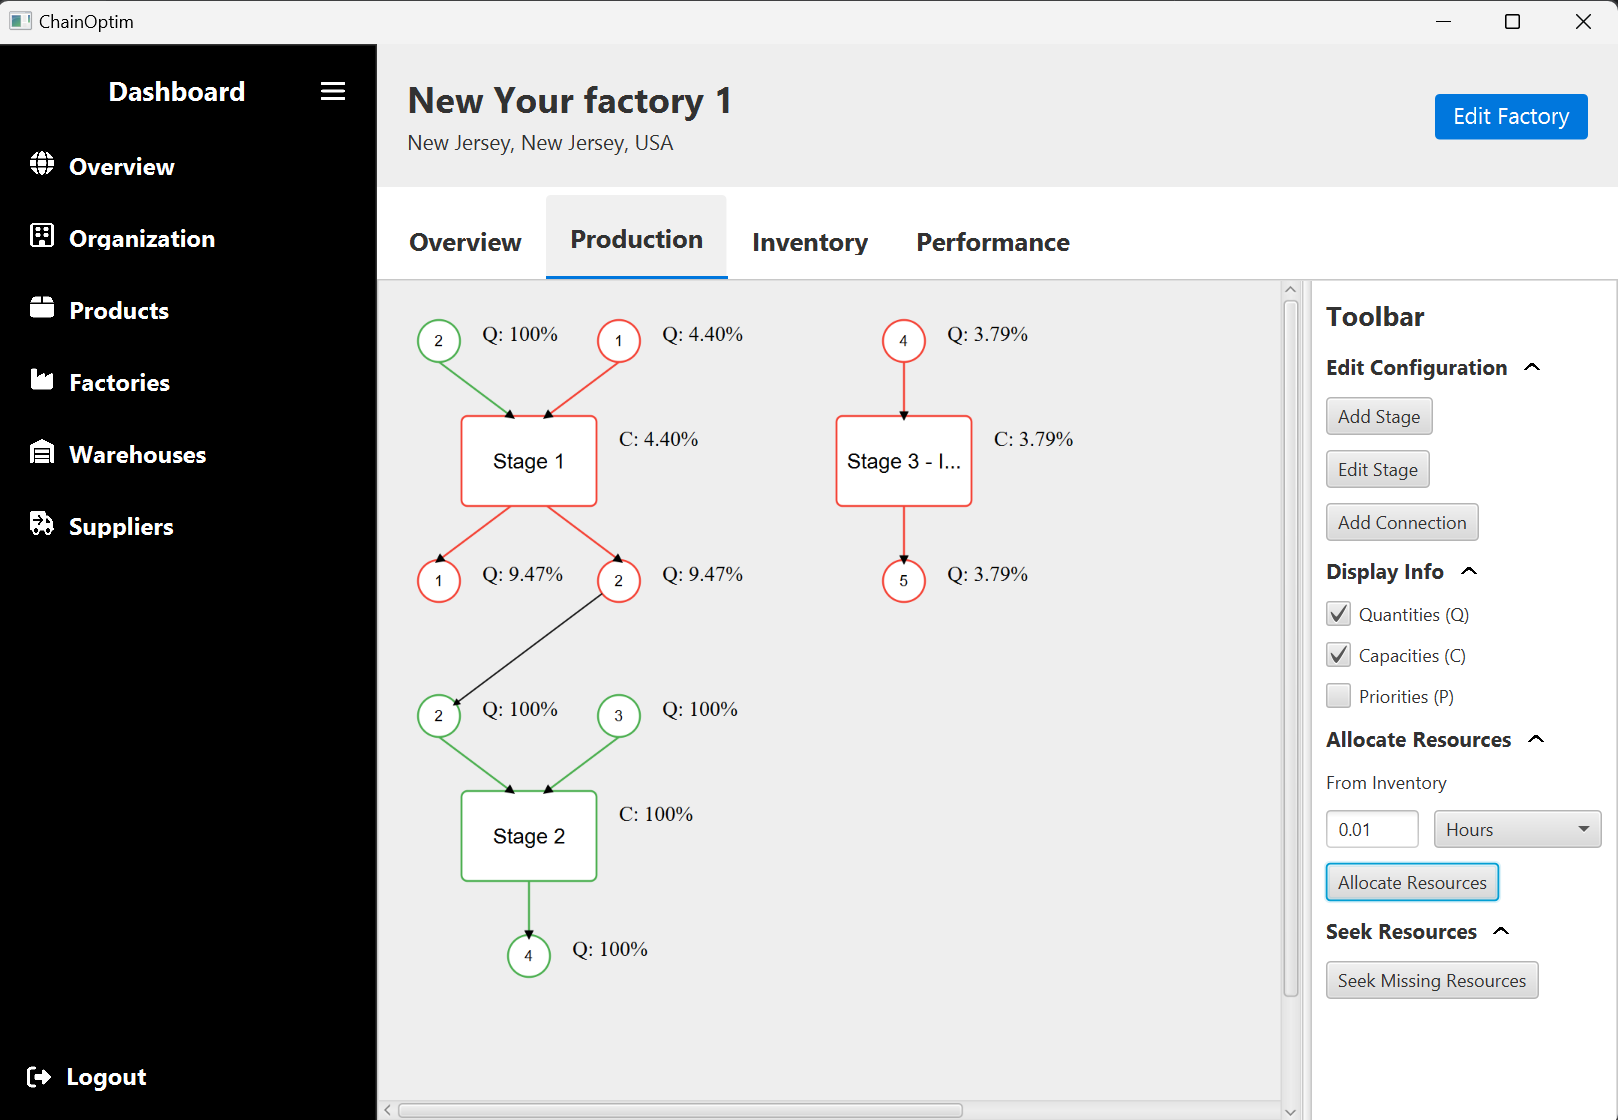
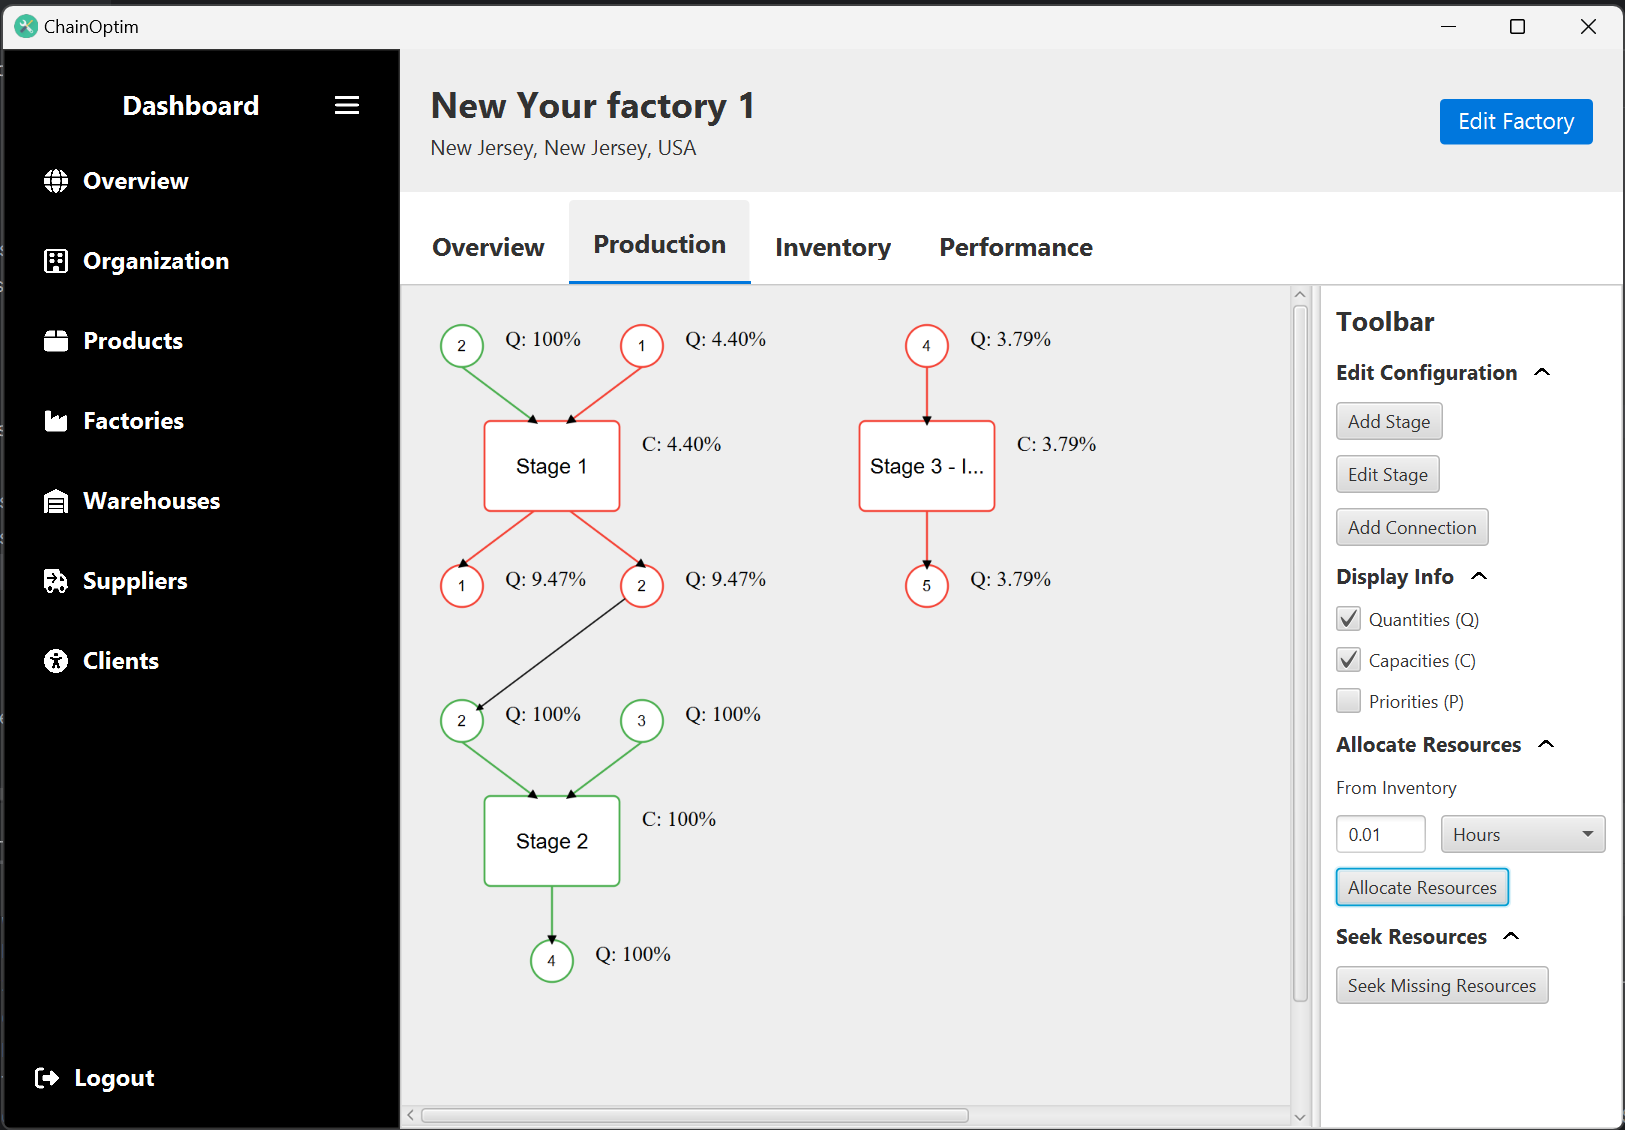
Add clients to Sidebar, AppModule etc

diff --git a/src/main/resources/css/sidebar.css b/src/main/resources/css/sidebar.css
@@ -2,11 +2,11 @@
 .sidebar {
     -fx-background-color: #000000;
     -fx-border-color: #333;
-    -fx-spacing: 10px;
+    -fx-spacing: 12px;
 }
 
 .sidebar-inner-container {
-    -fx-padding: 10px;
+    -fx-padding: 16px;
 }
 
 .sidebar-title {
@@ -25,7 +25,7 @@
     -fx-padding: 10px;
     -fx-border-radius: 5px;
     -fx-min-height: 40;
-    -fx-max-height: 40;
+    -fx-max-height: 48;
     -fx-alignment: baseline-left;
 
 }

diff --git a/src/main/java/org/chainoptim/desktop/features/client/controller/ClientController.java b/src/main/java/org/chainoptim/desktop/features/client/controller/ClientController.java
@@ -45,11 +45,11 @@ public class ClientController implements Initializable {
     @FXML
     private Tab shipmentsTab;
     @FXML
-    private Tab performanceTab;
+    private Tab evaluationTab;
     @FXML
     private Label clientName;
-    @FXML
-    private Label clientLocation;
+//    @FXML
+//    private Label clientLocation;
 
     @Inject
     public ClientController(ClientService clientService,
@@ -67,7 +67,7 @@ public class ClientController implements Initializable {
     @Override
     public void initialize(URL location, ResourceBundle resources) {
         Integer clientId = currentSelectionService.getSelectedId();
-        if (client == null) {
+        if (clientId == null) {
             System.out.println("Missing client id.");
             fallbackManager.setErrorMessage("Failed to load client.");
         }
@@ -93,10 +93,10 @@ public class ClientController implements Initializable {
             }
             this.client = clientOptional.get();
             clientName.setText(client.getName());
-            clientLocation.setText(client.getLocation().getFormattedLocation());
+//            clientLocation.setText(client.getLocation().getFormattedLocation());
 
 
-            loadTabContent(overviewTab, "/org/chainoptim/desktop/features/client/overview/ClientOverview.fxml", this.client);
+            loadTabContent(overviewTab, "/org/chainoptim/desktop/features/client/ClientOverviewView.fxml", this.client);
         });
 
         return clientOptional;
@@ -123,9 +123,9 @@ public class ClientController implements Initializable {
                 loadTabContent(shipmentsTab, "/org/chainoptim/desktop/features/client/ClientShipmentsView.fxml", this.client);
             }
         });
-        performanceTab.selectedProperty().addListener((observable, wasSelected, isNowSelected) -> {
-            if (Boolean.TRUE.equals(isNowSelected) && performanceTab.getContent() == null) {
-                loadTabContent(performanceTab, "/org/chainoptim/desktop/features/client/ClientPerformanceView.fxml", this.client);
+        evaluationTab.selectedProperty().addListener((observable, wasSelected, isNowSelected) -> {
+            if (Boolean.TRUE.equals(isNowSelected) && evaluationTab.getContent() == null) {
+                loadTabContent(evaluationTab, "/org/chainoptim/desktop/features/client/ClientEvaluationView.fxml", this.client);
             }
         });
     }

diff --git a/src/main/java/org/chainoptim/desktop/core/main/service/NavigationServiceImpl.java b/src/main/java/org/chainoptim/desktop/core/main/service/NavigationServiceImpl.java
@@ -50,14 +50,17 @@ public class NavigationServiceImpl implements NavigationService {
             Map.entry("Factories", "/org/chainoptim/desktop/features/factory/FactoriesView.fxml"),
             Map.entry("Warehouses", "/org/chainoptim/desktop/features/warehouse/WarehousesView.fxml"),
             Map.entry("Suppliers", "/org/chainoptim/desktop/features/supplier/SuppliersView.fxml"),
+            Map.entry("Clients", "/org/chainoptim/desktop/features/client/ClientsView.fxml"),
             // Dynamic route pages
             Map.entry("Product", "/org/chainoptim/desktop/features/product/ProductView.fxml"),
             Map.entry("Factory", "/org/chainoptim/desktop/features/factory/FactoryView.fxml"),
             Map.entry("Supplier", "/org/chainoptim/desktop/features/supplier/SupplierView.fxml"),
+            Map.entry("Client", "/org/chainoptim/desktop/features/client/ClientView.fxml"),
 
             // Create forms
             Map.entry("Create-Product", "/org/chainoptim/desktop/features/product/CreateProductView.fxml"),
-            Map.entry("Create-Supplier", "/org/chainoptim/desktop/features/supplier/CreateSupplierView.fxml")
+            Map.entry("Create-Supplier", "/org/chainoptim/desktop/features/supplier/CreateSupplierView.fxml"),
+            Map.entry("Create-Client", "/org/chainoptim/desktop/features/client/CreateClientView.fxml")
     );
 
     public void switchView(String viewKey) {

diff --git a/src/main/java/org/chainoptim/desktop/AppModule.java b/src/main/java/org/chainoptim/desktop/AppModule.java
@@ -13,6 +13,10 @@ import org.chainoptim.desktop.core.user.repository.UserRepository;
 import org.chainoptim.desktop.core.user.repository.UserRepositoryImpl;
 import org.chainoptim.desktop.core.user.service.AuthenticationService;
 import org.chainoptim.desktop.core.user.service.AuthenticationServiceImpl;
+import org.chainoptim.desktop.features.client.service.ClientService;
+import org.chainoptim.desktop.features.client.service.ClientServiceImpl;
+import org.chainoptim.desktop.features.client.service.ClientWriteService;
+import org.chainoptim.desktop.features.client.service.ClientWriteServiceImpl;
 import org.chainoptim.desktop.features.factory.factorygraph.service.FactoryProductionGraphService;
 import org.chainoptim.desktop.features.factory.factorygraph.service.FactoryProductionGraphServiceImpl;
 import org.chainoptim.desktop.features.factory.service.FactoryService;
@@ -69,5 +73,7 @@ public class AppModule extends AbstractModule {
         bind(WarehouseService.class).to(WarehouseServiceImpl.class);
         bind(SupplierService.class).to(SupplierServiceImpl.class);
         bind(SupplierWriteService.class).to(SupplierWriteServiceImpl.class);
+        bind(ClientService.class).to(ClientServiceImpl.class);
+        bind(ClientWriteService.class).to(ClientWriteServiceImpl.class);
     }
 }

diff --git a/src/main/java/org/chainoptim/desktop/features/client/service/ClientWriteServiceImpl.java b/src/main/java/org/chainoptim/desktop/features/client/service/ClientWriteServiceImpl.java
@@ -43,6 +43,7 @@ public class ClientWriteServiceImpl implements ClientWriteService {
                 .uri(URI.create(routeAddress))
                 .POST(HttpRequest.BodyPublishers.ofString(requestBody, StandardCharsets.UTF_8))
                 .headers(HEADER_KEY, headerValue)
+                .headers("Content-Type", "application/json")
                 .build();
 
         return client.sendAsync(request, HttpResponse.BodyHandlers.ofString())
@@ -78,6 +79,7 @@ public class ClientWriteServiceImpl implements ClientWriteService {
                 .uri(URI.create(routeAddress))
                 .POST(HttpRequest.BodyPublishers.ofString(requestBody, StandardCharsets.UTF_8))
                 .headers(HEADER_KEY, headerValue)
+                .headers("Content-Type", "application/json")
                 .build();
 
         return client.sendAsync(request, HttpResponse.BodyHandlers.ofString())

diff --git a/src/main/java/org/chainoptim/desktop/core/main/controller/SidebarController.java b/src/main/java/org/chainoptim/desktop/core/main/controller/SidebarController.java
@@ -54,7 +54,7 @@ public class SidebarController {
     public Button logoutButton;
 
     // Configuration
-    private final List<String> orderedKeys = List.of("Overview", "Organization", "Products", "Factories", "Warehouses", "Suppliers");
+    private final List<String> orderedKeys = List.of("Overview", "Organization", "Products", "Factories", "Warehouses", "Suppliers", "Clients");
     private final Map<String, String> buttonIconMap = Map.of(
             "Overview", "globe-solid.png",
             "Organization", "building-regular.png",
@@ -62,6 +62,7 @@ public class SidebarController {
             "Factories", "industry-solid.png",
             "Warehouses", "warehouse-solid.png",
             "Suppliers", "truck-arrow-right-solid.png",
+            "Clients", "universal-access-solid.png",
             "Account", "user-solid.png",
             "Toggle", "bars-solid.png"
     );

diff --git a/src/main/java/module-info.java b/src/main/java/module-info.java
@@ -81,6 +81,12 @@ module org.chainoptim.desktop {
     opens org.chainoptim.desktop.features.supplier.model to com.fasterxml.jackson.databind;
     opens org.chainoptim.desktop.features.supplier.dto to com.fasterxml.jackson.databind;
 
+    // - Client
+    opens org.chainoptim.desktop.features.client.controller to javafx.fxml, com.google.guice;
+    opens org.chainoptim.desktop.features.client.service to com.google.guice;
+    opens org.chainoptim.desktop.features.client.model to com.fasterxml.jackson.databind;
+    opens org.chainoptim.desktop.features.client.dto to com.fasterxml.jackson.databind;
+
     // - SC Analysis
     opens org.chainoptim.desktop.features.scanalysis.resourceallocation.service to com.google.guice;
     opens org.chainoptim.desktop.features.scanalysis.resourceallocation.model to com.fasterxml.jackson.databind;

diff --git a/src/main/java/org/chainoptim/desktop/features/client/controller/ClientsController.java b/src/main/java/org/chainoptim/desktop/features/client/controller/ClientsController.java
@@ -173,9 +173,9 @@ public class ClientsController implements Initializable {
     private void loadClientCardUI(Client client) {
         Label clientName = new Label(client.getName());
         clientName.getStyleClass().add("entity-name-label");
-        Label clientLocation = new Label(client.getLocation().getFormattedLocation());
-        clientLocation.getStyleClass().add("entity-description-label");
-        VBox clientBox = new VBox(clientName, clientLocation);
+//        Label clientLocation = new Label(client.getLocation().getFormattedLocation());
+//        clientLocation.getStyleClass().add("entity-description-label");
+        VBox clientBox = new VBox(clientName);
         Button clientButton = new Button();
         clientButton.getStyleClass().add("entity-card");
         clientButton.setGraphic(clientBox);

diff --git a/src/main/java/org/chainoptim/desktop/features/client/controller/ClientOverviewController.java b/src/main/java/org/chainoptim/desktop/features/client/controller/ClientOverviewController.java
@@ -1,0 +1,22 @@
+package org.chainoptim.desktop.features.client.controller;
+
+import javafx.fxml.FXML;
+import javafx.scene.control.Label;
+import org.chainoptim.desktop.features.client.model.Client;
+import org.chainoptim.desktop.features.factory.model.Factory;
+import org.chainoptim.desktop.shared.util.DataReceiver;
+
+public class ClientOverviewController implements DataReceiver<Client> {
+
+    private Client client;
+
+    @FXML
+    private Label clientName;
+
+    @Override
+    public void setData(Client client) {
+        this.client = client;
+        clientName.setText(client.getName());
+        System.out.println("Client received in overview: " + client.getName());
+    }
+}
